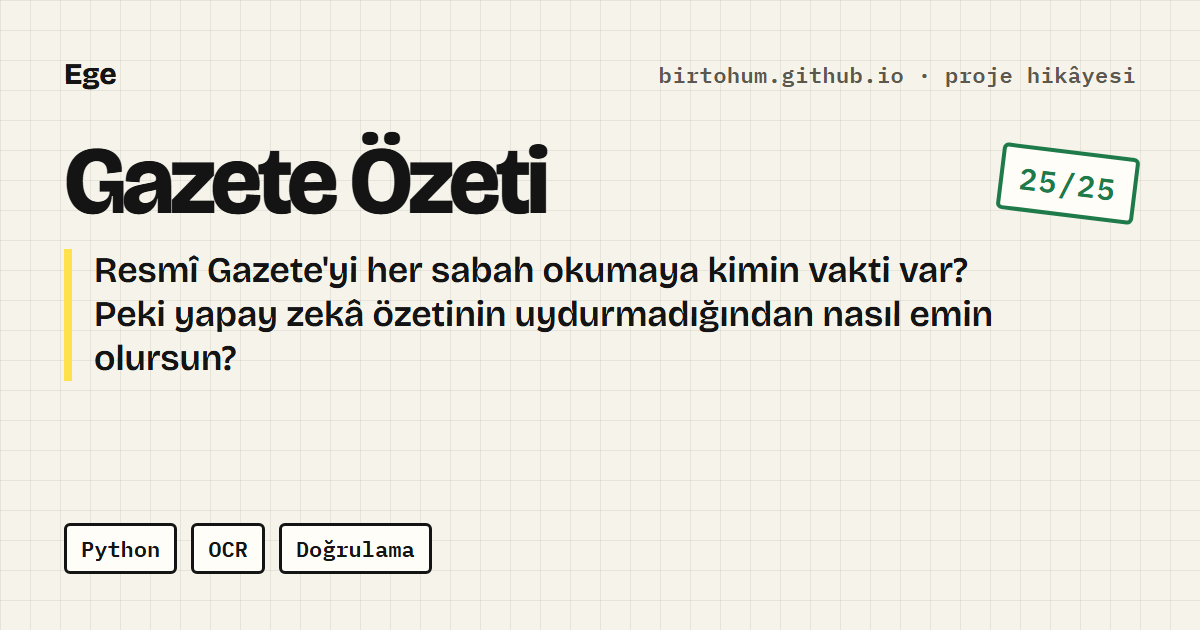
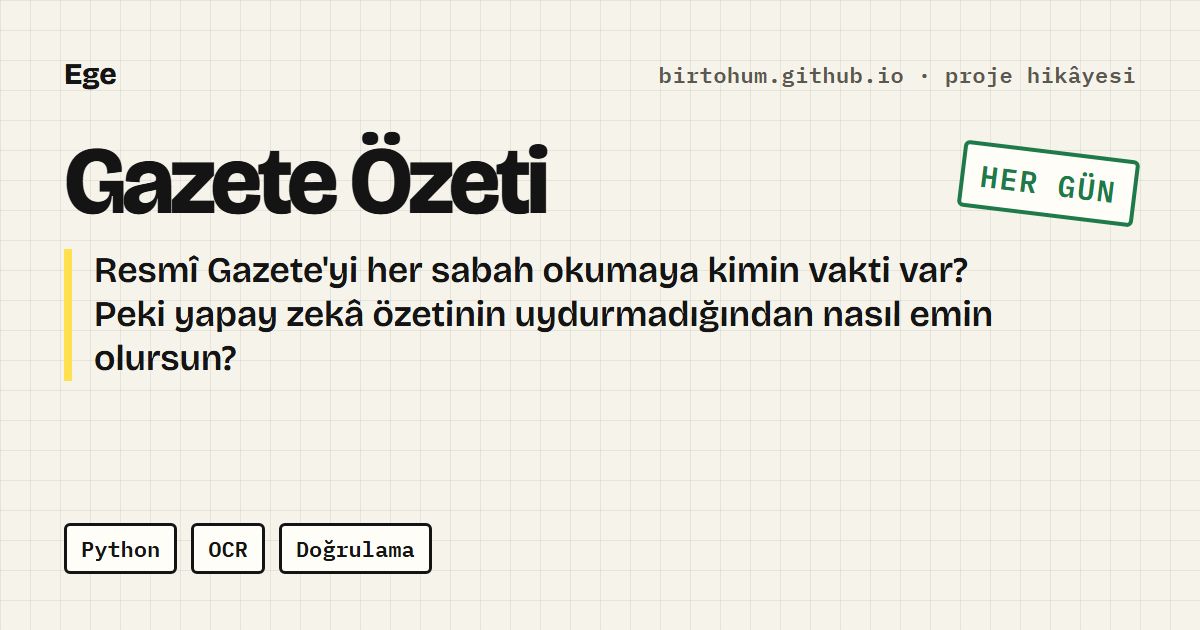
Gazete Özeti canlıda: portfolyo bağlantıları

Changed region(s): [[0.7708, 0.2111, 0.9558, 0.3619]]

diff --git a/veri.js b/veri.js
@@ -12,7 +12,7 @@ const PROJELER = [
    damga: ["Yenemedi", ""], alt: ["Python", "RL", "Backtest"], link: []},
   {t: "yz", em: "📰", ad: "Gazete Özeti", ne: "Her gün Resmî Gazete'yi sade Türkçeyle özetler; her iddia gazetedeki birebir alıntıyla eşleştirilir.",
    sonuc: "4 günde 37 metin: 180 iddianın 172'si yayımlandı, elle denetlenen 25'in 25'i doğru. Günde yaklaşık 0,04 $.",
-   damga: ["25/25", "iyi"], alt: ["Python", "OCR", "Doğrulama"], link: [["Kod", "https://github.com/birtohum/gazete-ozeti"]]},
+   damga: ["Her gün", "iyi"], alt: ["Python", "OCR", "Doğrulama"], link: [["Canlı", "https://birtohum.github.io/gazete-ozeti/"], ["Kod", "https://github.com/birtohum/gazete-ozeti"]]},
   {t: "urun", em: "💬", ad: "Yorum Yanıtlayıcı", ne: "Esnafın müşteri yorumlarına, yalnızca işletmenin verdiği bilgilere dayanan yanıt taslakları yazar.",
    sonuc: "Hiç görülmemiş 15 kuaför yorumunun 15'i elle kabul edildi. Uydurma söz, sayı ya da telefon kodla yakalanıyor.",
    damga: ["15/15", "iyi"], alt: ["Python", "Kural + model"], link: [["Kod", "https://github.com/birtohum/yorum-yanitlayici"]]},
@@ -83,7 +83,7 @@ const HIKAYE = {
     yaptim: ["Günün fihristini ve mükerrer sayıları çekiyor, taranmış PDF'leri okuyor, her düzenlemeyi sade Türkçeyle özetliyor. Özetteki her iddia gazetedeki birebir bir alıntıyla eşleşmek zorunda; eşleşmeyen iddia yayımlanmıyor. Okuyan her maddenin altında \"metindeki dayanak\"ı açıp görebiliyor."],
     ogrendim: "Denetleyen hakem özetleyenle aynı model, yani bağımsız değil. Atlanan madde olup olmadığını (eksiksizliği) henüz ölçmedim; sıradaki iş gerçek okurlarla bir hafta denemek.",
     gorseller: [[G + "p-gazete.webp", "1 Kasım 2026 sayısı: 36 iddianın 33'ü metinle doğrulandı (gerçek çıktı)"]],
-    link: [["Kod ↗", "https://github.com/birtohum/gazete-ozeti"]]},
+    link: [["Bugünün özeti ↗", "https://birtohum.github.io/gazete-ozeti/"], ["Kod ↗", "https://github.com/birtohum/gazete-ozeti"]]},
   "Yorum Yanıtlayıcı": {id: "yorum", sahne: {img: G + "p-yorum.webp", alt: "Yorum Yanıtlayıcı arayüzü"},
     soru: "Esnaf her müşteri yorumuna cevap yazmak istiyor ama vakti yok. Yapay zekâ söz vermeden, uydurmadan cevap yazabilir mi?",
     sayilar: [["15 / 15", "hiç görülmemiş kuaför yorumu kabul"], ["60 / 60", "geliştirme setinde"], ["≈ 0,001 $", "yorum başına"]],
@@ -177,7 +177,7 @@ const HIKAYE = {
 const SITELER = {
   "mevzuat-haritasi": "Mevzuat Haritası", "meclisin-dili": "Meclis'in Dili", "kac-sigara": "Kaç Sigara?",
   "sepet-enflasyonu": "Sepet Enflasyonu", "iett-dakiklik": "İETT Dakiklik",
-  "bu-gece-gokyuzu": "Bu gece gökyüzü", "denizler-isiniyor": "Denizler ısınıyor mu?", "turk-dizileri-dunyada": "Türk dizileri dünyada", "orman-yanginlari-uzaydan": "Orman yangınları uzaydan",
+  "bu-gece-gokyuzu": "Bu gece gökyüzü", "gazete-ozeti": "Gazete Özeti", "yapay-yasam": "Yapay Yaşam", "denizler-isiniyor": "Denizler ısınıyor mu?", "turk-dizileri-dunyada": "Türk dizileri dünyada", "orman-yanginlari-uzaydan": "Orman yangınları uzaydan",
   "turkiye-sallandi": "Türkiye sallandı", "turkiye-geceleri": "Türkiye geceleri", "istanbul-semalari": "İstanbul semaları",
   "barajlar-uzaydan": "Barajlar uzaydan", "turkiye-merak": "Türkiye neyi merak etti?",
 };

diff --git a/en.js b/en.js
@@ -44,13 +44,13 @@ const EN_PROJE = {
     alt_sahne: "Portfolio value of the agent and of buy-and-hold in a test period"},
   "Gazete Özeti": {ad: "Gazette Digest", ne: "Summarises Turkey's Official Gazette in plain Turkish every day; every claim is matched to a verbatim quote from the Gazette.",
     sonuc: "37 texts over 4 days: 172 of 180 claims published, 25 of 25 correct in a manual check. About $0.04 a day.",
-    damga: "25/25", alt: ["Python", "OCR", "Verification"],
+    damga: "Daily", alt: ["Python", "OCR", "Verification"],
     soru: "Who has time to read the Official Gazette every morning? And how do you know an AI summary isn't making things up?",
     sayilar: [["172 / 180", "claims verified and published"], ["25 / 25", "correct in manual check"], ["≈ $0.04", "per day"]],
     yaptim: ["It fetches the day's index and extra issues, reads scanned PDFs and summarises every regulation in plain Turkish. Every claim in a summary has to match a verbatim quote from the Gazette; claims that don't match are not published. Readers can open the \"source in the text\" under each point."],
     ogrendim: "The judge that checks the summaries is the same model that writes them, so it isn't independent. I haven't yet measured completeness (missed items); the next step is a week with real readers.",
     gorseller: [["gorsel/p-gazete.webp", "The 1 November 2026 issue: 33 of 36 claims verified against the text (real output)"]],
-    link: [["Code ↗", "https://github.com/birtohum/gazete-ozeti"]], alt_sahne: "Gazette Digest page"},
+    link: [["Today's digest ↗", "https://birtohum.github.io/gazete-ozeti/"], ["Code ↗", "https://github.com/birtohum/gazete-ozeti"]], alt_sahne: "Gazette Digest page"},
   "Yorum Yanıtlayıcı": {ad: "Review Replier", ne: "Drafts replies to customer reviews for small shops, based only on what the business itself provided.",
     sonuc: "15 of 15 unseen hair-salon reviews accepted on manual review. Invented promises, numbers or phone numbers are caught in code.",
     damga: "15/15", alt: ["Python", "Rules + model"],

diff --git a/index.html b/index.html
@@ -498,8 +498,8 @@ const sayacOlay = (yol, baslik) => { try { window.goatcounter?.count?.({path: yo
   </footer>
 </div>
 
-<script src="veri.js?v=13"></script>
-<script src="en.js?v=13"></script>
+<script src="veri.js?v=14"></script>
+<script src="en.js?v=14"></script>
 <script>
 "use strict";
 const HEPSI = PROJELER;
